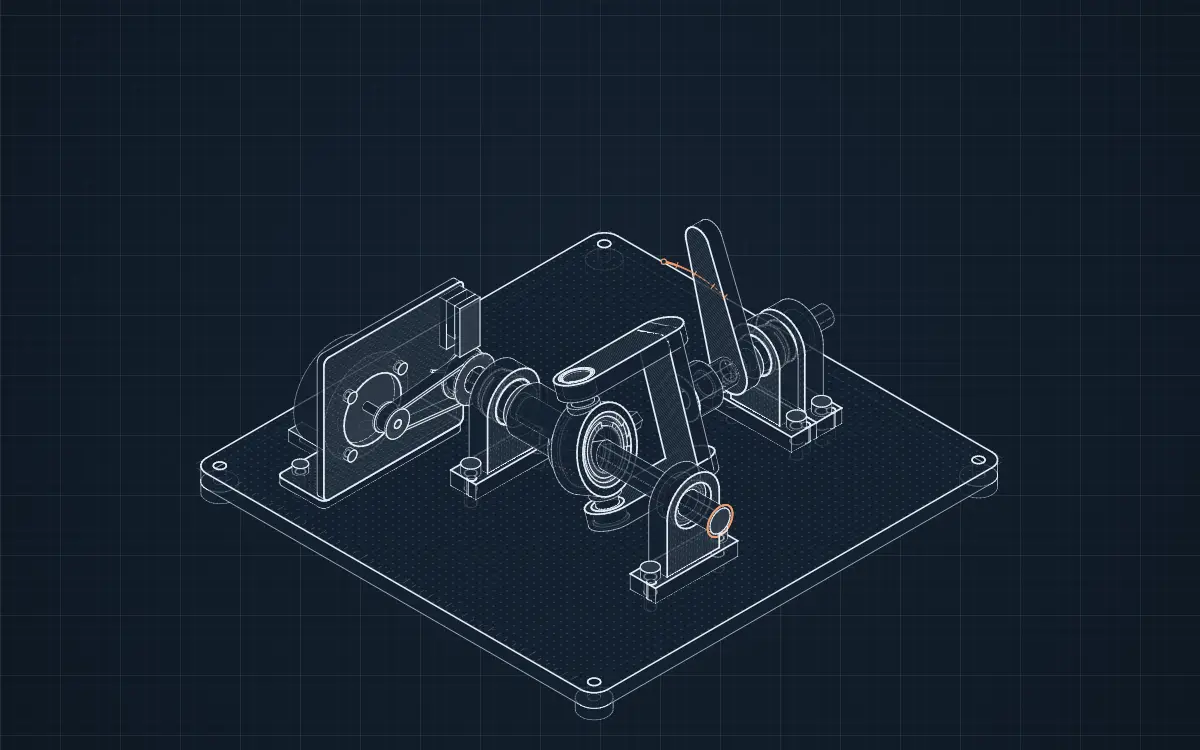
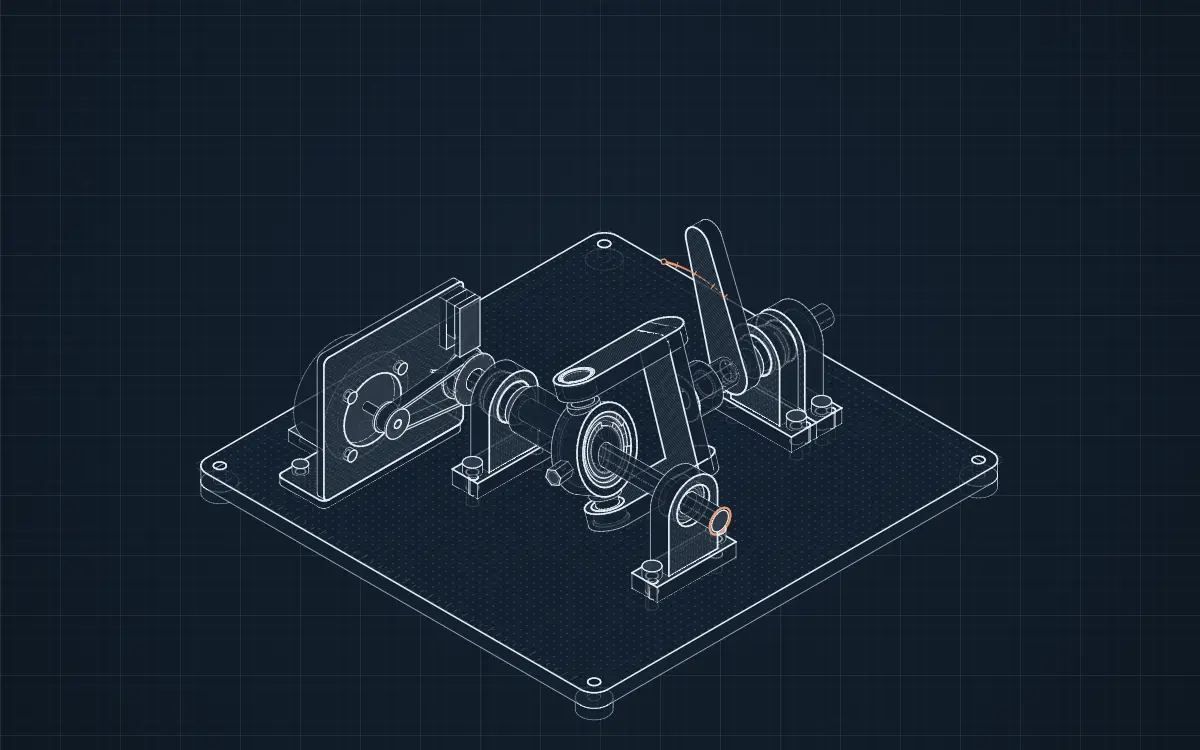
design: wobble box hub faced square to the journal, clear of the ring's flank (#253)

Changed region(s): [[0.37, 0.46, 0.6167, 0.7973]]

diff --git a/src/builder/shapes/wobble.ts b/src/builder/shapes/wobble.ts
@@ -25,12 +25,12 @@ function cylinder(mode: Feature["mode"], o: Vec3, x: Vec3, z: Vec3, from: Vec3, 
 }
 
 /**
- * A `shaft` with a `journal` ({ joint, diameter, collar, neck, seat [s0, s1], bore, shank }): the wobble hub. Its own
- * part is the straight shank (the shaft shape, keyed on the live shaft by the stack; `shank` long where the shape's
- * length also spans the shaft's run on through the journal); the journal is machined on it along the
- * journal joint's axis through that joint's point, from the seat's start to past its end (room for the circlip that
- * holds the bearing), with the collar the inner race stands on below the seat, `neck` long, running back into the shank;
- * the shaft's bore runs through the whole piece along its own axis.
+ * A `shaft` with a `journal` ({ joint, diameter, seat [s0, s1], spacer, bore, shank }): the wobble hub. Its own part is the
+ * straight shank (the shaft shape, keyed on the live shaft by the stack), cut off by the plane square to the journal at
+ * the seat's start: that oblique end face is the shoulder the inner race stands on. The journal stands on it along the
+ * journal joint's axis through that joint's point, to past the seat's end (room for the circlip that holds the
+ * bearing); the shaft's bore runs through the whole piece along its own axis. (`shank`, the length along the shaft
+ * where the hub is solid all round, is the kit's: its key runs there.)
  * `wobble-ring` (outer, width, bore, trunnion, pad): the housing round the journal's bearing, its trunnions out to the
  * yoke's cup radius along the trunnion joint's axis, each on a boss pad, one solid.
  */
@@ -48,22 +48,28 @@ export function wobble(kin: Kin, S: Setup, b: KinBody, g: BodyGeom): BodyGeom | 
     const c = jj.at;
     const a = canon(jj.axis);
     const rj = num(jr.diameter, 20) / 2;
-    const rc = num(jr.collar, 25) / 2;
     const [s0, s1] = pair(jr.seat, [-5, 5]);
-    const neck = num(jr.neck, 10);
     const end = s1 + 1.5;
     const rb = num(jr.bore, 0) / 2;
     const at = (s: number): Vec3 => v3.add(c, v3.mul(a, s));
-    const len = 4 * (end - s0 + neck + rc) + (g.thick ?? 0);
-    // `shank`: the straight shank's own length; past it the shape's length is only the run of the shaft through the
-    // journal to the pillow block beyond, so the stack straddles the hub: the shank is cut back to it
-    const shank = num(jr.shank, g.thick);
-    const back = shank < g.thick ? [cylinder("cut", po, F.x, F.z, v3.add(po, v3.mul(F.z, shank)), F.z, rc + 2, g.thick - shank + 1)] : [];
+    // the shank's planned length runs on past the journal (the shaft's run to the pillow block beyond, so the stack
+    // straddles the hub): everything past the plane square to the journal at the seat's start is cut away, which leaves
+    // the shank's end face as the shoulder the inner race stands on, square to the journal; the journal stands on it
+    const reach = 2 * (g.thick + Math.abs(s0) + end);
+    // the shoulder stands `spacer` back from the seat (an inner-race spacer between, the kit's), so the shank ends
+    // outside the ring's flank with a visible gap; behind the shoulder the shank is turned down to a boss square to the
+    // journal (`boss` across, `relief` deep), so the ring's flank keeps clear of the shank's oblique edge as it turns
+    const sh0 = s0 - num(jr.spacer, 0);
+    const relief = num(jr.relief, 3);
+    const rboss = num(jr.boss, 2 * rj + 5) / 2;
+    const turned = cylinder("cut", po, F.x, F.z, at(sh0 - relief), a, reach, relief + 0.01);
+    turned.profile.holes.push(circle(rboss, 0, 0, 48).reverse());
     const features: Feature[] = [
-      ...back,
-      cylinder("add", po, F.x, F.z, at(s0), a, rj, end - s0),
-      cylinder("add", po, F.x, F.z, at(s0 - neck), a, rc, neck),
-      ...(rb > 0 ? [cylinder("cut", po, F.x, F.z, v3.sub(c, v3.mul(F.z, len / 2)), F.z, rb + 0.05, len)] : []),
+      cylinder("cut", po, F.x, F.z, at(sh0), a, reach, reach),
+      turned,
+      // (the journal starts a little inside the shank, so its foot is not coplanar with the shoulder)
+      cylinder("add", po, F.x, F.z, at(sh0 - 1), a, rj, end - sh0 + 1),
+      ...(rb > 0 ? [cylinder("cut", po, F.x, F.z, v3.sub(c, v3.mul(F.z, reach / 2)), F.z, rb + 0.05, reach)] : []),
     ];
     return { ...g, approx: false, features: [...(g.features ?? []), ...features] };
   }

diff --git a/src/builder/rules/cross.ts b/src/builder/rules/cross.ts
@@ -51,7 +51,11 @@ export const crossBearings: Rule = {
         // the grease nipple on the centre block, along the third arm direction (F8); on a trunnion ring, on its rim
         // square to the trunnions and the journal, drilled through to both trunnions' cups
         const other = ring ? ctx.joints.find((q) => q.kit === "oblique-journal" && (q.a === crossId || q.b === crossId)) : ctx.joints.find((q) => q.kit === "cross-pin" && q.id !== j.id);
-        const n3 = other ? v3.unit(v3.cross(p, v3.unit(other.r.axis))) : ([0, 0, 1] as Vec3);
+        const n0 = other ? v3.unit(v3.cross(p, v3.unit(other.r.axis))) : ([0, 0, 1] as Vec3);
+        // a ring's nipple stands on the rim away from its yoke, where a grease gun reaches it and it does not stand
+        // alone between the yoke's arms
+        const yokeAt = ring ? ctx.joints.find((q) => (q.a === yokeId || q.b === yokeId) && (q.a === "ground" || q.b === "ground"))?.at : undefined;
+        const n3 = yokeAt && v3.dot(n0, v3.sub(yokeAt as Vec3, j.at as Vec3)) > 0 ? v3.mul(n0, -1) : n0;
         const block = ring ? num(cross?.outer, 40) / 2 : d / 2 + 3;
         const L = new Local(frameAlong(j.at as Vec3, n3), { joints: [j.id] });
         L.add(H.nipple(`${crossId}-nip`, { body: crossId, z0: block, z1: block + 9 }));

diff --git a/src/builder/rules/contacts/wobble.ts b/src/builder/rules/contacts/wobble.ts
@@ -47,6 +47,13 @@ const obliqueJournal: Rule = {
       L.add(H.circlip(`${j.id}-cli1`, D, { internal: true, body: ringId, z0: s0 - 1.2, z1: s0, name: "", qty: 0 }));
       L.add(H.circlip(`${j.id}-cle`, dj, { body: hubId, z0: end }));
       f2.push(`${j.id}-cli0`, `${j.id}-cli1`, `${j.id}-cle`);
+      // the inner race stands on a spacer on the journal where the hub's shoulder stands back from the seat (so the
+      // shank ends clear of the ring's flank)
+      const sp = num(jrn.spacer, 0);
+      if (sp > 0) {
+        L.add(H.spacer(`${j.id}-sp`, dj, dj + 4, { body: hubId, z0: s0 - sp, z1: s0, name: `Inner-race spacer ${dj}x${dj + 4}x${sp}, from the hub's shoulder to the bearing` }));
+        f2.push(`${j.id}-sp`);
+      }
       ctx.add(L.out());
       // the hub's key runs in the straight shank only (the stack keys the whole planned length, which spans the shaft's
       // run on through the journal to the far pillow block)

diff --git a/src/mechanisms/wobble-box/audit.md b/src/mechanisms/wobble-box/audit.md
@@ -55,7 +55,7 @@ PASS 147 · FAIL 0 · N/A 20 · open: none
 | T15 | PASS | HAND · labels state the mechanism, never its use |
 | T16 | N/A | HAND / STYLE · no two like parts of one role to tell apart |
 | T17 | PASS | AUTO · filled by the generator: the pipeline holds it for every built mechanism |
-| D1 | PASS | HAND · fired: wheels (no solids) · ring as one solid, a housing bored for its bearing with two trunnions on boss pads; the hub one solid, shank with the journal and collar machined on it at α; yoke as the universal joint's (hub, bar, arms bored for cups) |
+| D1 | PASS | HAND · fired: wheels (no solids) · ring as one solid, a housing bored for its bearing with two trunnions on boss pads; the hub one solid, a shank faced square to the journal as the bearing's shoulder (turned to a boss behind it, ending 3.8 mm clear of the ring's flank) with the journal machined on it at α; yoke as the universal joint's (hub, bar, arms bored for cups) |
 | D2 | PASS | HAND · material round the bearing bore and the trunnion roots; bosses round the cup bores |
 | D3 | PASS | STYLE · STYLE: roles by pattern and tone (both sheets) |
 | D4 | PASS | AUTO · fired: base (3 solids), feet (4 solids) · filled by the generator: a rule built solids for it |
@@ -64,7 +64,7 @@ PASS 147 · FAIL 0 · N/A 20 · open: none
 | D8 | PASS | AUTO / HAND · every solid a profile, an operation and a frame; the hub (shank, journal and collar added, the shaft's bore cut) and the ring (pads and trunnions added) are each one boolean solid (a mesh); no layers |
 | D9 | N/A | AUTO / HAND · fired: j12-cvt (no solids) · no member changes shape |
 | D10 | PASS | AUTO · filled by the generator: the pipeline holds it for every built mechanism |
-| D11 | PASS | AUTO · SOLID: 0 of 115 solids unsound |
+| D11 | PASS | AUTO · SOLID: 0 of 116 solids unsound |
 | D7 | PASS | HAND · ring, yoke and arm plain; richness in the bearings, circlips, cups and stacks |
 | A1 | PASS | AUTO · S1 J10, S2 J10, T cross-pin, J oblique-journal, drive drive · filled by the generator: the pipeline holds it for every built mechanism |
 | A2 | PASS | AUTO · S1 J10, S2 J10, T cross-pin, J oblique-journal, drive drive · filled by the generator: the pipeline holds it for every built mechanism |
@@ -82,7 +82,7 @@ PASS 147 · FAIL 0 · N/A 20 · open: none
 | A14 | PASS | AUTO / HAND · fired: support router · supports routed against the sweeps (least gap 1.5 mm); details checked by A15 |
 | A15 | PASS | AUTO · clearance in 3D over 72 phases: 0 clashes; hand allow: 1 named, 0 unnecessary |
 | A16 | PASS | HAND · 5 joint notes; no note: none; no badge: none · a note and a badge per joint; build rules: the axes meet at one centre, the journal is machined on the keyed hub, the ring's double-row bearing takes the trunnion loads, the arm keyed on the output shaft |
-| A17 | PASS | HAND · assembles in the explode order: the bearing into the ring and its circlips, the ring onto the journal and its circlip, the hub onto the shaft, the cups over the trunnions; every screw reachable |
+| A17 | PASS | HAND · assembles in the explode order: the bearing into the ring and its circlips, the spacer onto the journal, the ring onto it and the journal's circlip, the hub onto the shaft, the cups over the trunnions; every screw reachable |
 | A18 | PASS | AUTO · placement: 2 slabs in the tallest stack (80.0 mm), 0 clevises; stack per joint in the Joints table · filled by the generator: the pipeline holds it for every built mechanism |
 | A19 | PASS | AUTO · 2 supports routed (2 moved), least gap 1.5 mm; still covering a principle part, drawn see-through: S1-pb, S2-pb · both pairs of blocks routed off the sweeps; the input's far block drawn see-through where it covers the ring |
 | A20 | PASS | AUTO · support per joint: S1 pillow, S2 pillow · pillow blocks chosen for both shafts in plan |
@@ -100,7 +100,7 @@ PASS 147 · FAIL 0 · N/A 20 · open: none
 | E10 | PASS | AUTO · fired: explode (1 solid) · filled by the generator: a rule built solids for it |
 | J1 | N/A | AUTO · fired: trunnion (no solids), hub (no solids), j1-dead-axle (no solids) · filled by the generator: no joint of this type |
 | J2 | N/A | AUTO · fired: j2-live-shaft (no solids) · filled by the generator: no joint of this type |
-| J3 | PASS | AUTO · fired: j3-moving-pin (no solids), cross-bearings (8 solids), oblique-journal (7 solids), eccentric-bearing (no solids), spider-pin (no solids), ball-socket (no solids), ring-hub (no solids), eccentric (no solids) · filled by the generator: a rule built its kit |
+| J3 | PASS | AUTO · fired: j3-moving-pin (no solids), cross-bearings (8 solids), oblique-journal (8 solids), eccentric-bearing (no solids), spider-pin (no solids), ball-socket (no solids), ring-hub (no solids), eccentric (no solids) · filled by the generator: a rule built its kit |
 | J4 | N/A | AUTO · fired: pin-hole (no solids), j4-slot-roller (no solids), pin-lobe (no solids), fork-pin (no solids), die (no solids) · filled by the generator: no joint of this type |
 | J5 | N/A | AUTO · fired: tongue-slot (no solids), integrator-carriage (no solids), piston-bore (no solids), j5-slide (no solids), leg-bore (no solids) · filled by the generator: no joint of this type |
 | J6 | N/A | AUTO · fired: j6-mesh (no solids), friction-contact (no solids), ring-carrier (no solids), pin-ring (no solids), ring-rollers (no solids) · filled by the generator: no joint of this type |
@@ -112,7 +112,7 @@ PASS 147 · FAIL 0 · N/A 20 · open: none
 | J13 | N/A | AUTO · fired: j13-compliant (no solids) · filled by the generator: no joint of this type |
 | J11 | N/A | AUTO · fired: j11-screw (no solids) · filled by the generator: no joint of this type |
 | F1 | PASS | AUTO · served at S1, S2; fired: posts (no solids), integrator-carriage (no solids), j2-live-shaft (no solids), j10-shaft-in-plan (58 solids), ring-carrier (no solids), pin-ring (no solids), hub (no solids), strap-sheave (no solids), j13-compliant (no solids), covers (no solids) · filled by the generator: a rule built solids for it |
-| F2 | PASS | AUTO · served at S1, S2, T, J; fired: wheels (no solids), j12-flexible (no solids), j2-live-shaft (no solids), j10-shaft-in-plan (58 solids), cross-bearings (8 solids), oblique-journal (7 solids), trunnion (no solids), ring-carrier (no solids), eccentric-bearing (no solids), pin-ring (no solids), spider-pin (no solids), fork-pin (no solids), ring-hub (no solids), eccentric (no solids), hub (no solids), leg-bore (no solids), ring-rollers (no solids), strap-sheave (no solids), j11-screw (no solids), j13-compliant (no solids), covers (no solids) · filled by the generator: a rule built solids for it |
+| F2 | PASS | AUTO · served at S1, S2, T, J; fired: wheels (no solids), j12-flexible (no solids), j2-live-shaft (no solids), j10-shaft-in-plan (58 solids), cross-bearings (8 solids), oblique-journal (8 solids), trunnion (no solids), ring-carrier (no solids), eccentric-bearing (no solids), pin-ring (no solids), spider-pin (no solids), fork-pin (no solids), ring-hub (no solids), eccentric (no solids), hub (no solids), leg-bore (no solids), ring-rollers (no solids), strap-sheave (no solids), j11-screw (no solids), j13-compliant (no solids), covers (no solids) · filled by the generator: a rule built solids for it |
 | F3 | PASS | AUTO · served at S1, S2; fired: j12-flexible (no solids), j2-live-shaft (no solids), j10-shaft-in-plan (58 solids), j11-screw (no solids) · filled by the generator: a rule built solids for it |
 | F4 | PASS | AUTO / HAND · served at S1, S2; fired: j9-crossed-mesh (no solids), j2-live-shaft (no solids), j10-shaft-in-plan (58 solids), trunnion (no solids), spider-pin (no solids), j11-screw (no solids) · shaft collars locate both live shafts in their blocks; the ring's bearings are held both ways by circlips |
 | F5 | N/A | AUTO / HAND · served at no joint; fired: integrator-carriage (no solids), j5-slide (no solids), pawl-tooth (no solids), j11-screw (no solids), j13-compliant (no solids), stops (no solids) · the output's swing is bounded by the linkage itself (±α at every input angle), so it cannot over-travel with the drive off |
@@ -152,9 +152,9 @@ PASS 147 · FAIL 0 · N/A 20 · open: none
 | L9 | PASS | AUTO / DATA · section A-A declared in teaching.views and drawn by the renderer |
 | L10 | PASS | AUTO / STYLE · overlays drawn by the overlay rules in the sheet's look |
 | R1 | PASS | HAND · the yoke and cups reuse the universal joint's shapes and the cross-pin kit; bearings, circlips and stacks from the primitives |
-| R2 | PASS | HAND · shafts Ø12 and Ø10, bearings 3804 (double-row table), 6801, 6800 from the tables, M5 and M4 screws |
+| R2 | PASS | HAND · shafts Ø10 (input and output), bearings 3804 (double-row table), 6801, 6800 from the tables, M5 and M4 screws |
 | R3 | PASS | AUTO · fired: hardware primitives · shared subassemblies: pillow blocks, drive, sensor |
-| R4 | PASS | AUTO · package v2 29.8 KB · filled by the generator: the pipeline holds it for every built mechanism |
+| R4 | PASS | AUTO · package v2 26.4 KB · filled by the generator: the pipeline holds it for every built mechanism |
 | R5 | PASS | HAND · no polish |
 | R6 | PASS | FLAG · FLAG: bench run on the desktop with three heavy jobs on the machine, numbers indicative: frames 1.2 to 2.2 ms (under 8 ms); setup 83.8 ms over the 20 ms target, 79 ms of it the GPU first frame under load; the phone is measured by David |
 | R7 | PASS | HAND / FLAG · polish none; 0 solids added, 0 overrides by the polish |
@@ -179,10 +179,10 @@ PASS 147 · FAIL 0 · N/A 20 · open: none
 ## Joints
 | Joint | Kit | Block | Support | Stack | F1 locate | F2 retain | F3 torque | F4 thrust | F5 limit | F6 hold | F7 adjust | F8 lube | F9 timing | F10 protect |
 |---|---|---|---|---|---|---|---|---|---|---|---|---|---|---|
-| S1 | J10 | spherical-four-bar | pillow | – | 4 x Dowel pin Ø4 x 14 h6, block to base | 2 x Internal circlip DIN 472, Ø21 | Feather key 4 x 4 x 25.5 (DIN 6885) | 2 x Shaft collar 12x20, set screw | none | none | none | none | none | none |
+| S1 | J10 | spherical-four-bar | pillow | – | 4 x Dowel pin Ø4 x 14 h6, block to base | 2 x Internal circlip DIN 472, Ø19 | Feather key 3 x 3 x 25 (DIN 6885) | 2 x Shaft collar 10x18, set screw | none | none | none | none | none | none |
 | S2 | J10 | spherical-four-bar | pillow (moved) | – | 4 x Dowel pin Ø4 x 14 h6, block to base | 2 x Internal circlip DIN 472, Ø19 | Feather key 3 x 3 x 13 (DIN 6885); Feather key 3 x 3 x 7 (DIN 6885) | Inner-race spacer 10.2x13; 2 x Shaft collar 10x18, set screw | none | none | none | none | none | none |
 | T | cross-pin | spherical-four-bar | – | – | none | 2 x Internal circlip DIN 472, Ø14 | none | none | none | none | none | Grease nipple M6 (DIN 71412) | none | none |
-| J | oblique-journal | spherical-four-bar | – | – | none | 2 x Internal circlip DIN 472, Ø32; External circlip DIN 471, Ø20 | none | none | none | none | none | none | none | none |
+| J | oblique-journal | spherical-four-bar | – | – | none | 2 x Internal circlip DIN 472, Ø32; External circlip DIN 471, Ø20; Inner-race spacer 20x24x3.5, from the hub's shoulder to the bearing | none | none | none | none | none | none | none | none |
 | drive | drive | – | – | – | none | none | none | none | none | none | none | none | none | Home flag, 1 mm steel vane; Fork sensor, slotted optical, 5 mm gap |
 
 ## Supports
@@ -194,7 +194,8 @@ PASS 147 · FAIL 0 · N/A 20 · open: none
 ## Variants and overrides
 | Joint or part | Rule result | Chosen | Why |
 |---|---|---|---|
-| input | a plain shaft body | the wobble hub, one solid: a Ø25 shank keyed on the Ø12 live shaft with the journal and collar machined on it at α (record: `shape.journal`), its planned length spanning the shaft's run on to the far block | the stack sizes the shaft from the shank (A3), keys it (F3) and straddles the hub; the shank is cut back to its own length and the key trimmed to it by the oblique-journal kit |
+| input | a plain shaft body | the wobble hub, one solid: a Ø22 shank keyed on the Ø10 live shaft, faced square to the journal 3.5 mm behind the seat (an inner-race spacer between), with the journal machined on it at α (record: `shape.journal`), its planned length spanning the shaft's run on to the far block | the stack sizes the shaft from the shank (A3), keys it (F3) and straddles the hub; the shank is cut off at the shoulder plane by the shape and the key trimmed to the solid shank by the oblique-journal kit |
+| ring nipple | on the rim toward the yoke | on the rim away from the yoke | it stood alone between the yoke's arms, out of a grease gun's reach |
 | arm | a link on the output shaft, running free | keyed on the output shaft (record: `shape.keyed`) | the arm must turn with the output to give the stroke |
 | J | two deep-groove bearings | one double-row angular-contact bearing 3804-2RS | owner's review: fewer see-through layers at the centre; it also carries the thrust along the journal both ways |
 
@@ -204,12 +205,12 @@ PASS 147 · FAIL 0 · N/A 20 · open: none
 | DL-A | 11 | 0 | 1.74 |
 | DL-B | 0 | 272 | 1.85 |
 | DL-C | 0 | 0 | 1.77 |
-| DL-D | 9 | 0 | 2.08 |
+| DL-D | 10 | 0 | 2.08 |
 | DL-E | 9 | 0 | 2.03 |
 | DL-F | 0 | 0 | 2.19 |
 | DL-G | 0 | 0 | 1.76 |
 | DL-H | 13 | 0 | 2.13 |
-| never | 73 | 155 | 1.99 (full) |
+| never | 73 | 151 | 1.99 (full) |
 
 ## Promotion candidates
 Promoted in this pass: the `spherical-four-bar` block (closed form, any link angles; the Hooke joint is its 90 degree case,
@@ -220,5 +221,5 @@ Candidates: a shim pack at a located pillow block where axes must meet (F7, the 
 a shank length of its own for a hub whose shaft runs on past it, in the stack builder instead of the kit's trim.
 
 ## Verification
-check: clean · K1 residual: 1.4e-14 · claims: 4 of 4 ok · clearance: 0 clashes · clamp: clean · edge distance: clean · package: 29.8 KB
+check: clean · K1 residual: 1.4e-14 · claims: 4 of 4 ok · clearance: 0 clashes · clamp: clean · edge distance: clean · package: 26.4 KB
 screenshots: .local/n1-shots/wobble-box/rework (record view, PLAN, FRONT, SIDE, ISOMETRIC, section A-A, explode; both sheets; centre crops at 2x) · bench: frame times of the first build (desktop under load from parallel passes, numbers indicative); setup 83.8 ms flagged over the 20 ms target (GPU first frame 79 ms)
